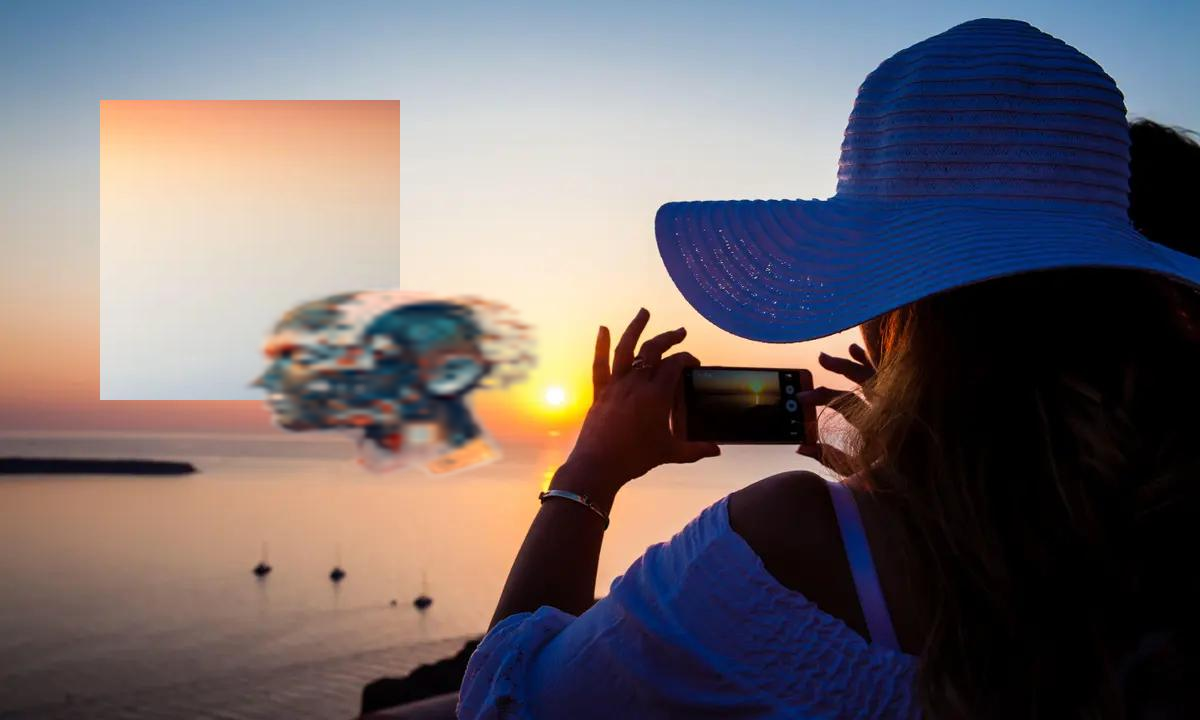
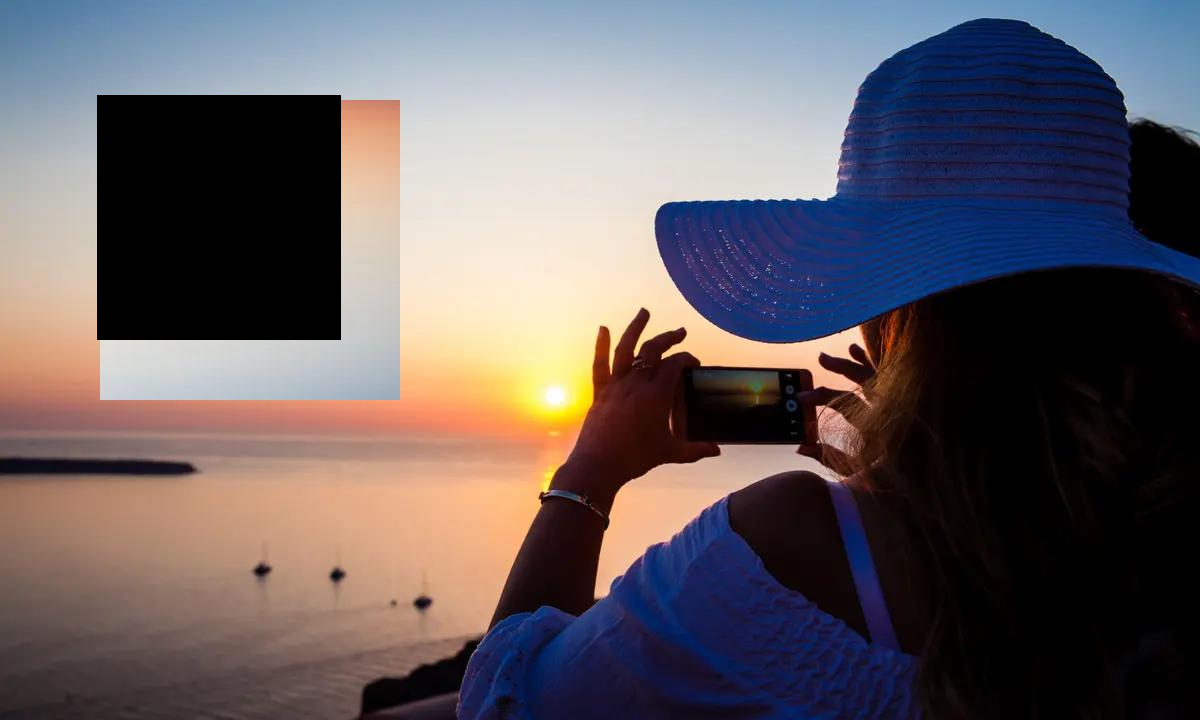
watermark proportions fixed, watermark is movable and scalable with touch and mouse

Changed region(s): [[0.0617, 0.1222, 0.4625, 0.6722]]

diff --git a/static/js/edit.js b/static/js/edit.js
@@ -1,19 +1,26 @@
-
 // Function to calculate the position of the watermark relative to the main image
 function getWatermarkPosition(watermark, container) {
     var watermarkRect = watermark.getBoundingClientRect();
     var containerRect = container.getBoundingClientRect();
+
     return {
         x: watermarkRect.left - containerRect.left,
-        y: watermarkRect.top - containerRect.top
+        y: watermarkRect.top - containerRect.top,
+
     };
 }
 
+const watermark = document.getElementById('image-watermark');
+// Scale properties 
+let ScaleObject = {
+    water_width: watermark.style.width,
+    water_height: watermark.style.height,
+}
 
 // MOVE AND SCALE WITH TOUCH
 
 document.addEventListener('DOMContentLoaded', function() {
-    const watermark = document.getElementById('image-watermark');
+    
     const container = document.getElementById('main-image'); // Using document as the container for simplicity, adjust as needed
     
     let initialDistance = null;
@@ -49,25 +56,18 @@ document.addEventListener('DOMContentLoaded', function() {
 
     // Add drag functionality
 function makeDraggable(dragTarget, container) {
-    let startX, startY, offsetX, offsetY, isDragging = false;
-
+    let startX, startY, startLeft, startTop, isDragging = false;
+    const rect = dragTarget.getBoundingClientRect();
     function startDrag(e) {
         // Prevent initiating drag if more than one touch is detected or we are scaling
         if (e.touches && e.touches.length > 1) return;
 
-        const clientX = e.type.includes('touch') ? e.touches[0].clientX : e.clientX;
-        const clientY = e.type.includes('touch') ? e.touches[0].clientY : e.clientY;
-        const rect = dragTarget.getBoundingClientRect();
-
-        // Calculate the offset from the cursor/finger to the top-left corner of the dragTarget
-        startX = clientX;
-        startY = clientY;
-        offsetX = clientX - rect.left;
-        offsetY = clientY - rect.top;
-
+        startX = e.touches[0].clientX;
+        startY = e.touches[0].clientY;
+        startLeft = watermark.offsetLeft;
+        startTop = watermark.offsetTop;
+        
         // Attach event listeners for moving and stopping the drag
-        document.addEventListener('mousemove', onDrag, { passive: false });
-        document.addEventListener('mouseup', stopDrag);
         document.addEventListener('touchmove', onDrag, { passive: false });
         document.addEventListener('touchend', stopDrag);
 
@@ -78,25 +78,21 @@ function makeDraggable(dragTarget, container) {
     function onDrag(e) {
         if (!isDragging) return;
 
-        const clientX = e.type.includes('touch') ? e.touches[0].clientX : e.clientX;
-        const clientY = e.type.includes('touch') ? e.touches[0].clientY : e.clientY;
-
-        // Include page scroll offsets in the calculation for absolute positioning relative to the document
-        const scrollX = window.pageXOffset || document.documentElement.scrollLeft;
-        const scrollY = window.pageYOffset || document.documentElement.scrollTop;
+        dx = e.touches[0].clientX - startX
+        dy = e.touches[0].clientY - startY
 
         // Calculate new position considering the initial offsets
-        let newX = clientX - offsetX + scrollX;
-        let newY = clientY - offsetY + scrollY;
+        let newX = startLeft +dx;
+        let newY = startTop + dy;
 
         // Container (background picture) dimensions and position
         const containerRect = container.getBoundingClientRect();
 
         // Apply constraints: Allow the watermark to slightly go out of the background picture by 30px
-        const minX = containerRect.left + scrollX - 30; // 30px outside to the left
-        const maxX = containerRect.right + scrollX - dragTarget.offsetWidth + 30; // 30px outside to the right
-        const minY = containerRect.top + scrollY - 30; // 30px outside to the top
-        const maxY = containerRect.bottom + scrollY - dragTarget.offsetHeight + 30; // 30px outside to the bottom
+        const minX = - 30; // 30px outside to the left
+        const maxX = containerRect.width  - dragTarget.offsetWidth + 30; // 30px outside to the right
+        const minY = - 30; // 30px outside to the top
+        const maxY = containerRect.height - dragTarget.offsetHeight + 30; // 30px outside to the bottom
 
         // Constrain newX and newY within the min and max values
         newX = Math.min(Math.max(newX, minX), maxX);
@@ -148,21 +144,17 @@ function makeDraggable(dragTarget, container) {
         if (e.touches.length < 2 && initialDistance) {
             scale = parseFloat(watermark.style.transform.slice(6, -1)) || 1;
             initialDistance = null; // Reset initial distance for pinch-to-zoom
+            ScaleObject.water_width = watermark.style.width
+            ScaleObject.water_height = watermark.style.height
         }
     });
 });
 
 
-// Scale properties 
-let ScaleObject = {
-    water_width: 0,
-    water_height: 0,
-}
 
 //  MOVE AND SCALE WITH MOUSE
 
 document.addEventListener('DOMContentLoaded', function() {
-    const watermark = document.getElementById('image-watermark');
     const scaleHandles = document.getElementsByClassName('scale-handle');
     let isResizing = false;
     let isDragging = false;
@@ -178,6 +170,9 @@ document.addEventListener('DOMContentLoaded', function() {
         startY = e.clientY;
         startLeft = watermark.offsetLeft;
         startTop = watermark.offsetTop;
+        // console.log("startLeft", startLeft)
+        // console.log("startTOP", startTop)
+        // console.log("startx: ", startX)
 
         document.addEventListener('mousemove', doDrag);
         document.addEventListener('mouseup', stopDrag);
@@ -194,19 +189,19 @@ document.addEventListener('DOMContentLoaded', function() {
         const containerRect = container.getBoundingClientRect();
     
         // Including window's scroll offsets
-        const scrollX = window.scrollX;
-        const scrollY = window.scrollY;
+        // const scrollX = window.scrollX;
+        // const scrollY = window.scrollY;
     
         // Calculate the new position including the drag distance
         let newX = startLeft + dx;
         let newY = startTop + dy;
     
         // Constrain the new position to allow the watermark to go slightly out of the main container by 30px
-        const minX = containerRect.left + scrollX - 30;
-        const maxX = containerRect.right + scrollX - watermark.offsetWidth + 30;
-        const minY = containerRect.top + scrollY - 30;
-        const maxY = containerRect.bottom + scrollY - watermark.offsetHeight + 30;
-    
+        const minX = -30;
+        const maxX = containerRect.width - watermark.offsetWidth + 30;
+        const minY = -30;
+        const maxY = containerRect.height - watermark.offsetHeight + 30;
+        
         // Apply the constraints to newX and newY
         newX = Math.max(minX, Math.min(newX, maxX));
         newY = Math.max(minY, Math.min(newY, maxY));
@@ -236,7 +231,7 @@ document.addEventListener('DOMContentLoaded', function() {
         const handleId = e.target.id;
         startX = e.clientX;
         startY = e.clientY;
-        const rect = watermark.getBoundingClientRect();
+        rect = watermark.getBoundingClientRect();
         startWidth = rect.width;
         startHeight = rect.height;
         startLeft = watermark.offsetLeft;
@@ -321,24 +316,23 @@ document.addEventListener('DOMContentLoaded', function() {
 document.getElementById('get-position-btn').addEventListener('click', function clickEventHandler() {
     var mainImage = document.getElementById('main-image');
     var imageWatermark = document.getElementById('image-watermark'); 
-    var textWatermark = document.getElementById('text-watermark')// Or textWatermark for the <p> element
+    var mainImageSize = mainImage.getBoundingClientRect();
     var position = getWatermarkPosition(imageWatermark, mainImage);
     position.x = Math.floor(position.x);
     position.y = Math.floor(position.y);
-    var text_position = getWatermarkPosition(textWatermark, mainImage);
-    console.log('Watermark Position:', position);
-    document.getElementById('num').textContent = 'watermark position ' + ' x ' + position.x + ' y ' +position.y;
-    document.getElementById('tnum').textContent = 'text '+ 'x '+ text_position.x + ' y '+ text_position.y
-    fetch('/edit', {
+
+    
+ fetch('/edit', {
         method: 'POST',
         headers: {
             'Content-Type': 'application/json',
         },
         body: JSON.stringify({
             watermark_pos: position,
-            text_pos: text_position,
-            width_w: ScaleObject.water_width,
-            height_w: ScaleObject.water_height,
+            watermarkWidth: ScaleObject.water_width,
+            watermarkHeight: ScaleObject.water_height,
+            mainImageWidth: mainImageSize.width,
+            mainImageHeight: mainImageSize.height,
 
 
         })

diff --git a/templates/index.html b/templates/index.html
@@ -5,7 +5,7 @@
     <meta name="viewport" content="width=device-width, initial-scale=1.0">
     <link rel="stylesheet" href="/static/css/style.css">
     <link rel="stylesheet" href="/static/css/edit.css">
-    <title>Document</title>
+    <title>Stampex</title>
 </head>
 
 <body>
@@ -31,6 +31,7 @@
             <br>
             <button type="submit">Upload</button>
         </form>
+        <button id="get-position-btn" >Get Watermark Position</button>
         {%if result%}
         <a href="{{url_for('download_image')}}" class="button">download_image</a>
         {%endif%}
@@ -40,16 +41,16 @@
     
     </div>
 </div>
+<div class="noise">
+    Lorem ipsum dolor sit amet consectetur, adipisicing elit. Corporis ut modi qui ipsum unde iusto eligendi aliquid voluptatibus iure aspernatur. Quo, optio neque. Pariatur odio iste enim, eaque natus autem quos cumque aliquid exercitationem, ipsam optio reiciendis alias quis maxime tempora perferendis eius, perspiciatis possimus error nemo expedita? Eos exercitationem modi adipisci ipsa distinctio iste libero laborum sint alias soluta, repudiandae perferendis fugiat perspiciatis illum, repellat porro, et harum dolore quas voluptates. Aperiam quod, eaque enim consequatur, impedit asperiores temporibus, tenetur distinctio corporis iure sint nobis illo ipsa doloremque quas recusandae officia aliquam voluptate ullam nesciunt aspernatur natus laborum? Lorem ipsum, dolor sit amet consectetur adipisicing elit. Earum excepturi asperiores adipisci harum, suscipit officia dignissimos, sunt accusamus molestiae voluptatibus maiores similique aliquid fugit illo modi nostrum neque eveniet tempora animi laboriosam, dolorum voluptas totam optio! Maiores dignissimos modi est minima illum nisi non sit, eaque, commodi sunt assumenda rerum voluptatibus nobis vel sint ad voluptate quibusdam minus quisquam, autem ipsa quo. Corporis deserunt explicabo cupiditate ullam! Assumenda fugiat exercitationem perspiciatis. Dicta cupiditate commodi doloremque deserunt facere eaque pariatur officiis nemo quia fuga, non illo aliquam, quo, amet obcaecati quos. Fuga, aliquid odio. Sint, maxime veniam quas eligendi eaque qui. Aperiam autem repellendus quasi repellat dicta expedita cumque odit id quam ullam excepturi atque facilis aspernatur dolor nulla vero debitis accusamus veritatis provident eum libero rerum, non tenetur. Officiis quod quasi at voluptatum pariatur quos ratione voluptatem corporis dolor dolorum ad voluptate eligendi doloribus ipsum, ut vero harum quia. Fugit, id! Fugiat, placeat expedita delectus facilis, explicabo dolor maiores doloremque excepturi accusamus odio commodi sunt, at ab eaque distinctio perspiciatis. Ipsa, eius! Accusantium, nam pariatur. Vero, eius. Expedita fuga provident illum temporibus ipsa pariatur officiis tempore, aliquid accusamus cum obcaecati voluptatibus cupiditate, dignissimos magni, molestiae eveniet delectus dolores inventore non!
+</div>
 
     <div class="edit">
         <div id="image-container" style="position: relative; width: 100%;">
-            <img id="main-image" src="" alt="Main Image">
+            <img id="main-image" src=""  alt="Main Image">
             <div id="image-watermark" style="position: absolute; top: 0; left:0; opacity: 1; width: 100px; height: 100px;">
                 <img id="image-watermark-inner" src="" style="width: 100%; height: 100%;" alt="Watermark">
-            
-                <!-- <div id="scale-handle" style="position: absolute; bottom: 0; right: 0; width: 100%; height: 100%; background: transparent; cursor: nwse-resize; border-width: 50px; border-color: blue;"></div> -->
-                  <!-- The scaling frame -->
-                <div id="scaling-frame" style="position: absolute; top: 0; left: 0; right: 0; bottom: 0; border: 2px solid blue;">
+                <div id="scaling-frame" style="position: absolute; top: 0; left: 0; right: 0; bottom: 0; border: 2px solid blue; display: none;">
                 <!-- Scaling handles -->
                 <div class="scale-handle" id="scale-top-left" style="position: absolute; top: -5px; left: -5px; width: 10px; height: 10px; background-color: blue; cursor: nw-resize;"></div>
                 <div class="scale-handle" id="scale-top-right" style="position: absolute; top: -5px; right: -5px; width: 10px; height: 10px; background-color: blue; cursor: ne-resize;"></div>
@@ -67,7 +68,6 @@
             <p id="text-watermark" style="color:green; font-size: 25px;"></p>
     
         </div>
-        <button id="get-position-btn" >Get Watermark Position</button>
     </div>
 </div>
     <script src="/static/js/edit.js"></script>

diff --git a/static/js/script.js b/static/js/script.js
@@ -30,6 +30,8 @@ document.addEventListener("DOMContentLoaded", function() {
 
     // Attach the event listener to watermark input
     document.getElementById('watermark').addEventListener('change', function(event) {
+        const scaleFrame = document.getElementById("scaling-frame")
+        scaleFrame.style.display = 'block';
         handleFileSelection(event, 'water-name', 'image-watermark-inner'); // Make sure to have a corresponding 'water-preview' ID for your watermark preview image
     });
 });

diff --git a/static/css/edit.css b/static/css/edit.css
@@ -2,15 +2,13 @@
     margin-top: 20px;
     position: relative;
     width: 100%;
-    height: auto;
+
 }
 
 #image-container {
     background: #eaeaea;
     border: 1px solid #ccc;
-    margin-top: 20px;
-    position: relative;
-    width: 100%;
+
 }
 
 .scale-handle {

diff --git a/watermark.py b/watermark.py
@@ -3,21 +3,28 @@ from PIL import Image, ImageOps
 
 class Watermark():
     
-    def merge_with_transparency(self,background_image_path, watermark_path,position,  **kwargs):
+    def merge_with_transparency(self,background_image_path, watermark_path,position,changed_image_height,changed_image_width,  **kwargs):
         with Image.open(watermark_path) as img:
             ImageOps.cover(img, (250, 250)).save(watermark_path)
         # Open the background and transparent images
         background = Image.open(background_image_path).convert("RGBA")
         watermark = Image.open(watermark_path).convert("RGBA")
-    
+        # discovering proportions 
+        proportionY = changed_image_height*100/ background.height
+        proportionX = changed_image_width*100/ background.width
+        #changing position according to proportions 
+        calculated = (int(position[0]*100/proportionY),int(position[1]*100/proportionY))
+        position = calculated
+        
         # Create a new blank image with the same size as the background
         merged_image = Image.new("RGBA", background.size)
         try:
             
             watermark_width = kwargs.get('width', watermark.width)
             watermark_height= kwargs.get('height', watermark.width)
-            
-            resized_watermark = watermark.resize((watermark_width, watermark_height))
+            #changing size according to proportions 
+            size = (int(watermark_width*100/proportionX), int(watermark_height*100/proportionX))
+            resized_watermark = watermark.resize(size)
         except TypeError:
             pass
         else:
@@ -30,9 +37,9 @@ class Watermark():
 
         return merged_image
     
-    def get_result(self, image, watermark, position, width = None, height = None):
-        result = self.merge_with_transparency(image, watermark, position, width = width, height = height)
-        result.save('result/result.png', "PNG")
+    def get_result(self, image, watermark, position,changed_image_height,changed_image_width, width = None, height = None ):
+        result = self.merge_with_transparency(image, watermark, position,changed_image_height,changed_image_width, width = width, height = height)
+        result.save('result/resultChanged.png', "PNG")
         return 'result/result.png'
 
 

diff --git a/server.py b/server.py
@@ -19,9 +19,14 @@ def upload_file():
         picture = request.files['picture']
         watermark = request.files['watermark']
         data = session.get('data', {"ERROR":"no data: found"})
-        position = (data['watermark_pos']["x"], data['watermark_pos']["y"])
-        width = data["width_w"][:-2]
-        height = data["height_w"][:-2]
+        position = [data['watermark_pos']["x"], data['watermark_pos']["y"]]
+        width = data["watermarkWidth"][:-2]
+        height = data["watermarkHeight"][:-2]
+        
+        changed_image_width = int(data['mainImageWidth'])
+        changed_image_height = int(data['mainImageHeight'])
+        
+        
         
         
         
@@ -41,7 +46,7 @@ def upload_file():
                 picture.save(temp_picture.name)
                 watermark.save(temp_watermark.name)
          
-                add_watermark.get_result(temp_picture.name, temp_watermark.name, position, width=int(width), height=int(height))
+                add_watermark.get_result(temp_picture.name, temp_watermark.name, position, width=int(width), height=int(height), changed_image_width=changed_image_width, changed_image_height= changed_image_height)
 
                 # # Clean up the temporary and processed files
                 # os.unlink(temp_picture.name)
